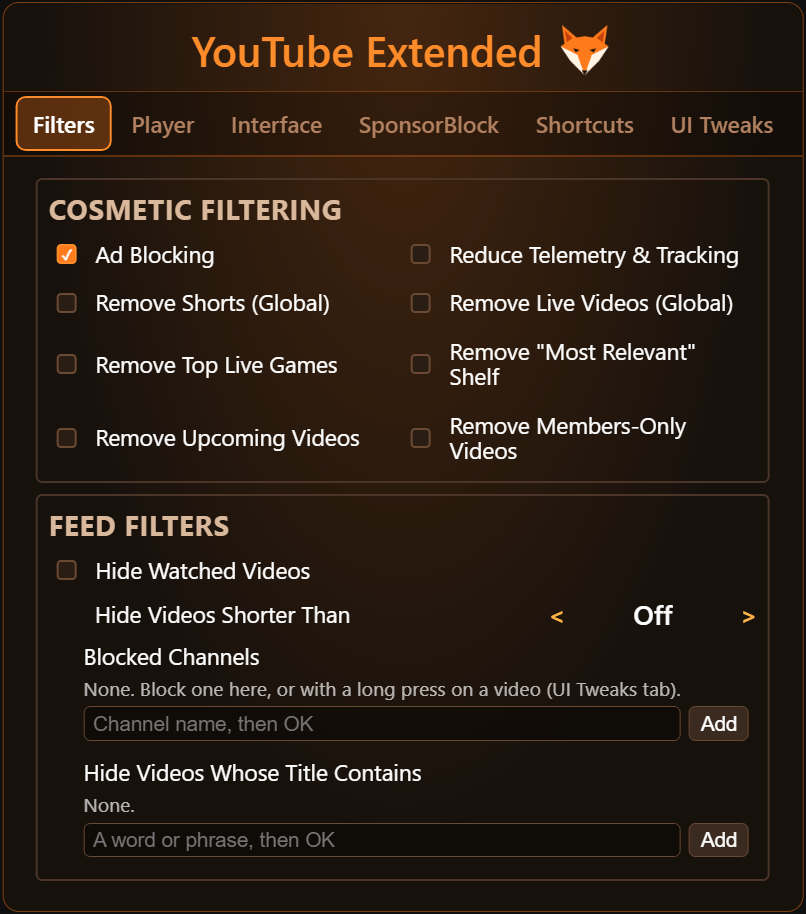
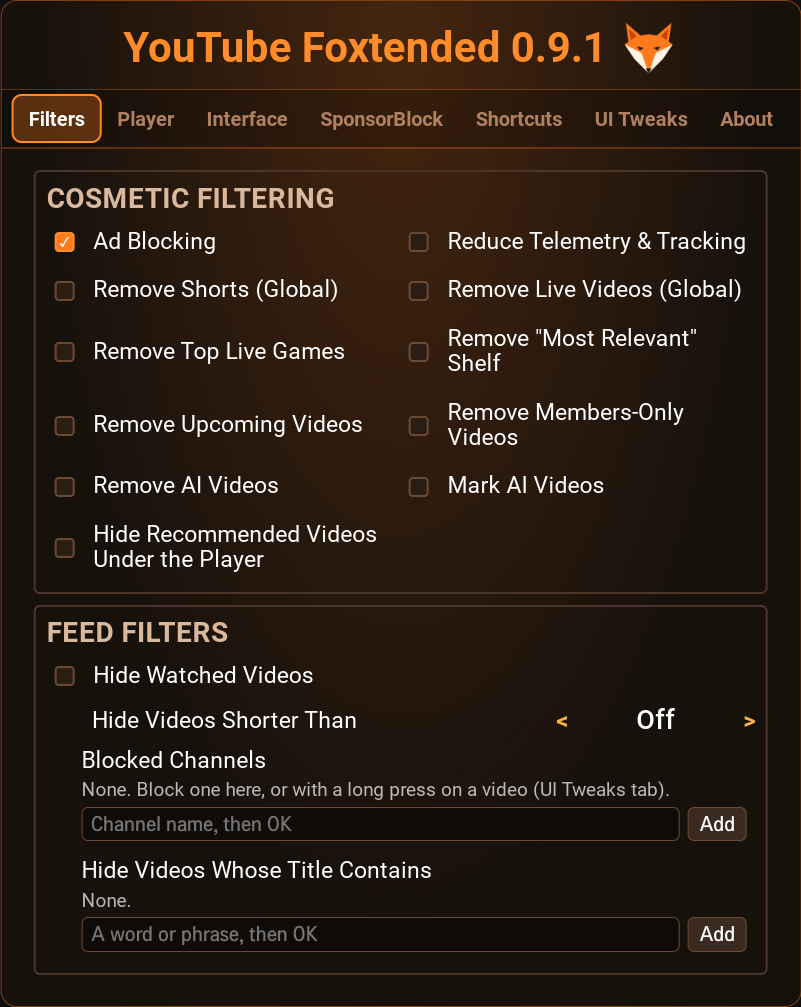
Rename to YouTube Foxtended in the graphics, screenshots, release titles and CI artifact

Changed region(s): [[0.0, 0.0, 1.0, 1.0], [0.0624, 0.4595, 0.437, 0.4902], [0.4994, 0.337, 0.5306, 0.3676]]

diff --git a/.github/release-notes.md b/.github/release-notes.md
@@ -1,5 +1,5 @@
 <p align="center">
-  <img src="https://raw.githubusercontent.com/foxi69/youtube-webos/main/screenshots/banner.svg" alt="YouTube AdFree for LG webOS TVs" width="100%">
+  <img src="https://raw.githubusercontent.com/foxi69/youtube-webos/main/screenshots/banner.svg" alt="YouTube Foxtended for LG webOS TVs" width="100%">
 </p>
 
 <p align="center">

diff --git a/README.md b/README.md
@@ -1,5 +1,5 @@
 <p align="center">
-  <img src="screenshots/banner.svg" alt="YouTube AdFree for LG webOS TVs" width="100%">
+  <img src="screenshots/banner.svg" alt="YouTube Foxtended for LG webOS TVs" width="100%">
 </p>
 
 <p align="center">
